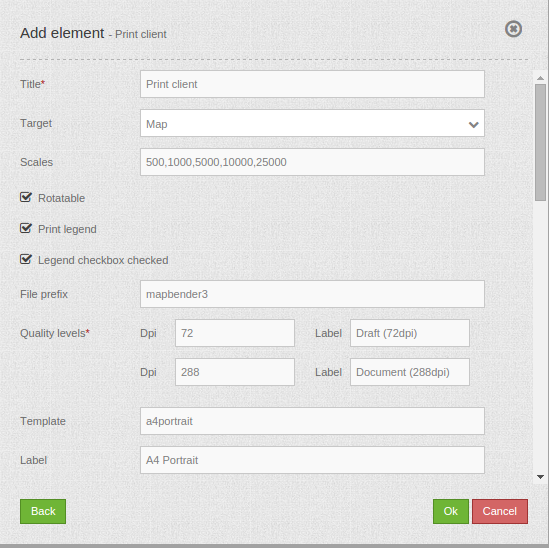
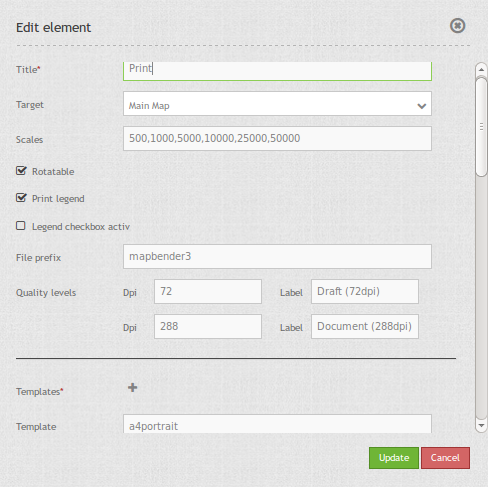
list for parameters, image

diff --git a/de/bundles/Mapbender/CoreBundle/elements/printclient.rst b/de/bundles/Mapbender/CoreBundle/elements/printclient.rst
@@ -25,16 +25,16 @@ Konfiguration
 Das Element kann über einen Button aufgerufen werden oder in der Sidepane (Seitenleiste) verwendet werden. Siehe unter :doc:`button` für die Konfiguration.
 
 
-* **Title**: Titel des Elements. Dieser wird in der Layouts Liste angezeigt und ermöglicht, mehrere Button-Elemente voneinander zu unterscheiden. Der Titel wird außerdem neben dem Button angezeigt, wenn "Beschriftung anzeigen" aktiviert ist.
+* **Titel**: Titel des Elements. Dieser wird in der Layouts Liste angezeigt und ermöglicht, mehrere Button-Elemente voneinander zu unterscheiden. Der Titel wird außerdem neben dem Button angezeigt, wenn "Beschriftung anzeigen" aktiviert ist.
 * **Target**: Zielelement (ID des Kartenelements). 
-* **Scales**: Maßstäbe, die in der Selectbox ausgewählt werden können. Wenn keine Maßstäbe angegeben werden, kann ein beliebiger Maßstab in einem Textfeld definiert werden.
+* **Maßstabsstufen (Scales)**: Maßstäbe, die in der Selectbox ausgewählt werden können. Wenn keine Maßstäbe angegeben werden, kann ein beliebiger Maßstab in einem Textfeld definiert werden.
 * **Drehbar**: definiert, ob der Ausdruck gedreht werden kann, der Standardwert ist true
 * **Legende drucken**: ob auch die Legende der Karte gedruckt werden soll, der Standardwert ist false
+* **Legenden Checkbox aktiv**: Soll die Legenden-Checkbox beim Start aktiv sein
 * **File prefix**: Definition des Dateinames für das PDF
-* **quality_levels**: Qualität in dpi-Werten definieren und die dazugehörige Beschriftung angegeben
-
+* **Qualitätsstufen**: Qualität in dpi-Werten definieren und die dazugehörige Beschriftung angegeben
 * **Template**: Verweis auf die Druckvorlage (z.B. a4potrait).
-* **Label**: Beschriftung des Feldes (z.B. Potrait A4).
+* **Beschriftung (Label)**: Beschriftung des Feldes (z.B. Potrait A4).
 * **Format**: Ausgabeformat des Templates (z.B. a4).
 * **Optionale Felder (optional field)**: 
 ** **title**: Name des optionalen Feldes, der Standardwert ist null (keine optionalen Felder sind definiert)

diff --git a/en/bundles/Mapbender/CoreBundle/elements/printclient.rst b/en/bundles/Mapbender/CoreBundle/elements/printclient.rst
@@ -28,14 +28,14 @@ Configuration
 You need a button to show this element or you can use it in the sidepane. See :doc:`button` for inherited configuration options.
 
 * **target**: Id of Map element to query
-* **templates**: template name, template file name without file extension (Mapbender is looking for file a4portrait.odg an a4portrait.pdf), Template files are located at app/Resources/MapbenderPrintBundle
-* **** - template label in the dialog, format (a4,a3,...) has to be defined 
 * **scales** -  define scales to choose from selectbox or if empty free scale can be defined in a textfield
-* **quality_levels** - define quality levels in dpi
 * **rotatable** - true/false use true for rotation, default is true
-* **legend - true/false, default is false
-* **legend_default_behaviour** - true/false, if true the legend checkbox is checked by default
+* **print legend** - true/false, default is false
+* **legend checkbox checked** - (legend_default_behaviour) - true/false, if true the legend checkbox is checked by default
 * **file_prefix** - define the file prefix for the pdf that is generated (file_prefix_date.pdf will be created)
+* **quality_levels** - define quality levels in dpi
+* **templates**: template name, template file name without file extension (Mapbender is looking for file a4portrait.odg an a4portrait.pdf), Template files are located at app/Resources/MapbenderPrintBundle
+* **label** - define a template label for the selectbox
 * **optional_fields** - define optional fields (example title-field oder comment)
 * **replace_pattern** - You can modify the maprequest for printing. You can add additional parameters like map_resolution (for MapServer)
 
